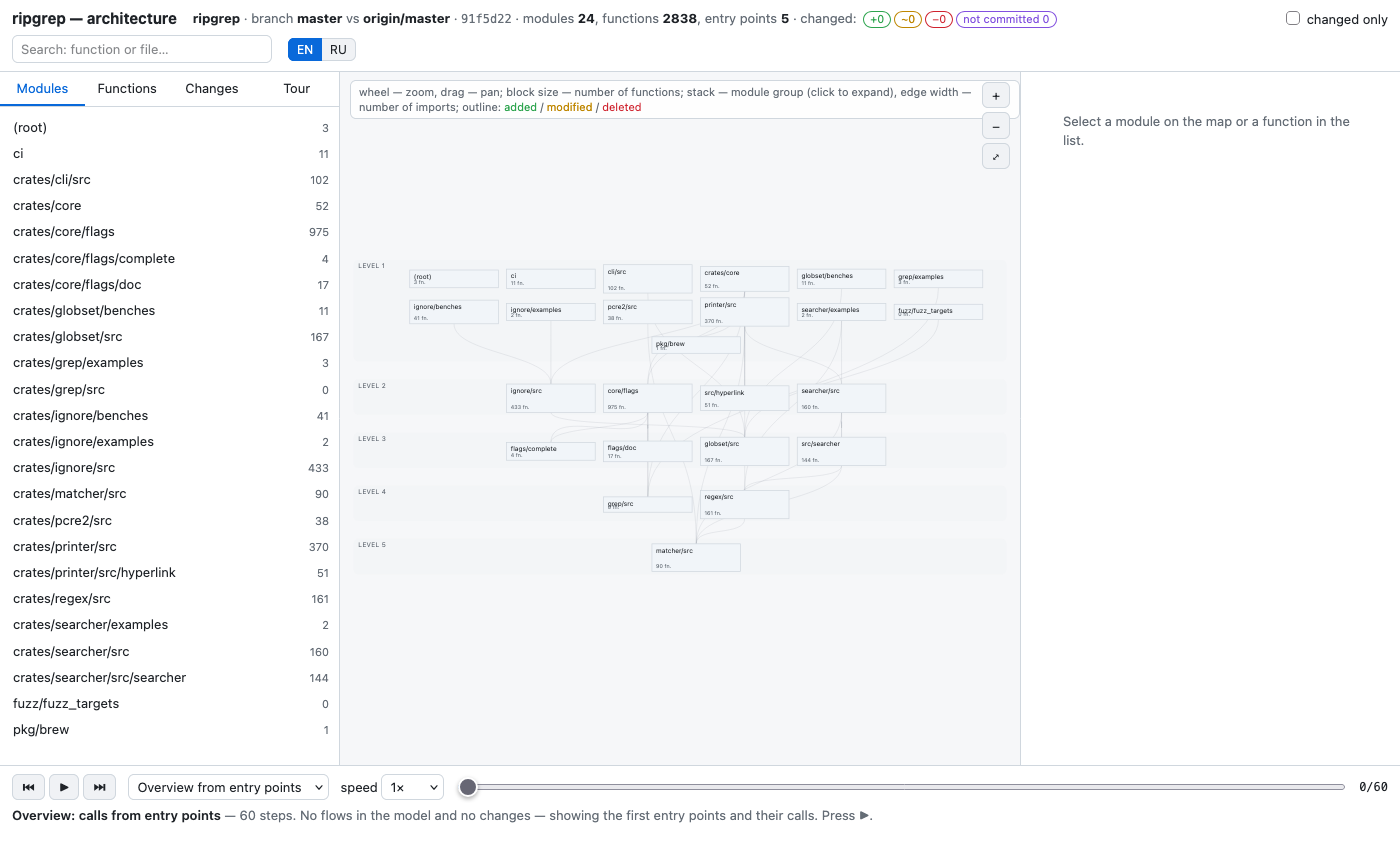
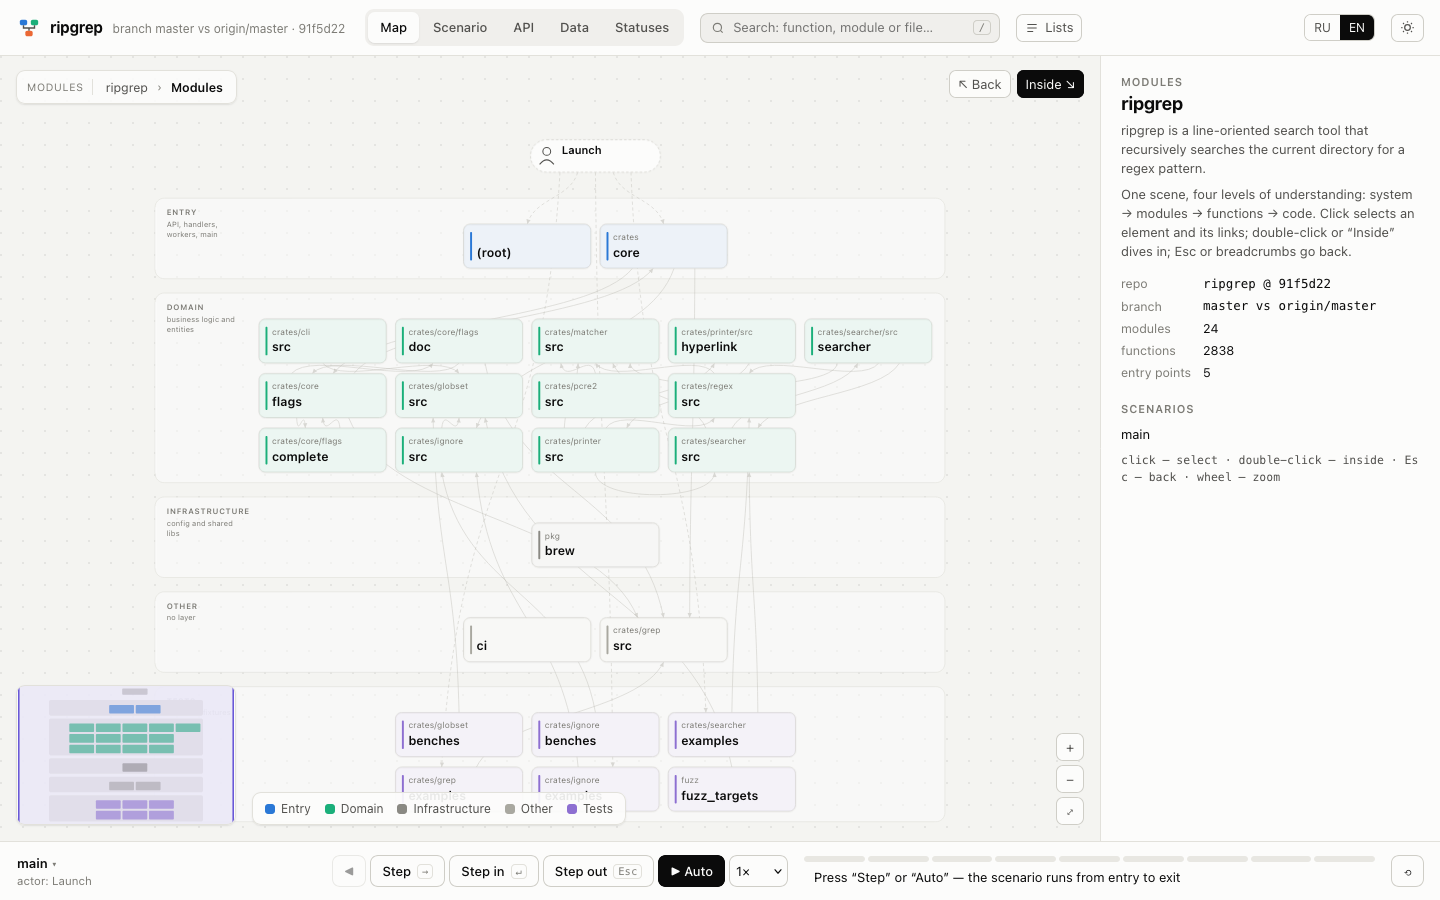
docs(readme): views, levels, markup and screenshots on open repos; fix(viewer): sequence right margin, sql schema label

diff --git a/internal/render/viewer/views/data.js b/internal/render/viewer/views/data.js
@@ -11,7 +11,7 @@ A.addI18n({
     dvOther: 'прочее', dvMore: (n) => '+ ещё ' + n, dvTables: (n, p) => n + ' ' + p(['таблица', 'таблицы', 'таблиц']),
     dvFields: 'Поля', dvRefsOut: 'Ссылается на', dvRefsIn: 'Ссылаются на неё', dvWho: 'Кто меняет', dvEps: 'Ручки, которые её трогают',
     dvNoWho: 'в коде не найдено обращений', dvNoEps: 'ни одна ручка не доходит до таблицы по вызовам', dvShowAll: (n) => 'показать все (' + n + ')',
-    dvSource: { migration: 'миграции', orm: 'ORM', query: 'запросы', sql: 'SQL' }, dvVirtual: 'таблицы нет в схеме — найдена только по обращениям',
+    dvSource: { migration: 'миграции', sqlc: 'схема SQL', orm: 'ORM', query: 'запросы', sql: 'SQL' }, dvVirtual: 'таблицы нет в схеме — найдена только по обращениям',
     dvLegend: 'R — читает, W — пишет, RW — оба. Клик по ячейке — функции, дающие доступ.', dvAllKinds: 'Все виды', dvMode: ['Все ручки', 'Только с данными', 'Есть запись', 'Только чтение'],
     dvSort: ['По имени', 'По числу таблиц', 'По записи'], dvColSort: ['Колонки: по имени', 'Колонки: по частоте'], dvRowsMore: (n) => 'ещё ' + n + ' ручек — показать',
     dvCell: 'Ручка × таблица', dvFns: 'Функции с доступом', dvOpenApi: 'Открыть ручку в API', dvOpenTable: 'Открыть таблицу', dvNoRows: 'Ни одна ручка не подходит под фильтры',
@@ -24,7 +24,7 @@ A.addI18n({
     dvOther: 'other', dvMore: (n) => '+ ' + n + ' more', dvTables: (n) => n + (n === 1 ? ' table' : ' tables'),
     dvFields: 'Fields', dvRefsOut: 'References', dvRefsIn: 'Referenced by', dvWho: 'Who changes it', dvEps: 'Endpoints that touch it',
     dvNoWho: 'no access found in code', dvNoEps: 'no endpoint reaches this table through calls', dvShowAll: (n) => 'show all (' + n + ')',
-    dvSource: { migration: 'migrations', orm: 'ORM', query: 'queries', sql: 'SQL' }, dvVirtual: 'not in the schema — found only from accesses',
+    dvSource: { migration: 'migrations', sqlc: 'SQL schema', orm: 'ORM', query: 'queries', sql: 'SQL' }, dvVirtual: 'not in the schema — found only from accesses',
     dvLegend: 'R — reads, W — writes, RW — both. Click a cell for the functions that give the access.', dvAllKinds: 'All kinds', dvMode: ['All endpoints', 'With data only', 'Writes', 'Read-only'],
     dvSort: ['By name', 'By tables count', 'By writes'], dvColSort: ['Columns: by name', 'Columns: by usage'], dvRowsMore: (n) => n + ' more endpoints — show',
     dvCell: 'Endpoint × table', dvFns: 'Functions with access', dvOpenApi: 'Open the endpoint in API', dvOpenTable: 'Open the table', dvNoRows: 'No endpoint matches the filters',

diff --git a/internal/render/viewer/views/sequence.js b/internal/render/viewer/views/sequence.js
@@ -158,9 +158,10 @@ function seqRender() {
   const m = seqModel();
   if (!m || !m.rows.length) { AM.h('div', { class: 'seq-empty' }, sWrap, AM.esc(AM.t('seqEmpty'))); seqSide(); return; }
   const parts = m.parts, np = parts.length;
-  const cw = sWrap.clientWidth || 900, x0 = 84, colMin = 150;
-  const W = Math.max(cw - 1, x0 * 2 + (np - 1) * colMin);
-  const colW = np > 1 ? (W - x0 * 2) / (np - 1) : 0;
+  // the right margin is wider than the left: a self-call loop with its label hangs to the right of the last lifeline
+  const cw = sWrap.clientWidth || 900, x0 = 84, xr = 240, colMin = 150;
+  const W = Math.max(cw - 1, x0 + xr + (np - 1) * colMin);
+  const colW = np > 1 ? (W - x0 - xr) / (np - 1) : 0;
   const X = {}; parts.forEach((p, i) => { X[p.key] = np > 1 ? x0 + i * colW : W / 2; });
 
   // vertical layout

diff --git a/README.md b/README.md
@@ -15,9 +15,58 @@ with [tree-sitter](https://tree-sitter.github.io/).
 
 The viewer UI is bilingual (English and Russian): it follows the browser
 language, can be forced with `?lang=en` / `?lang=ru`, and has an EN/RU switch
-in the header. One scene goes from the system context down to modules, functions
-and code; scenarios play through all four levels. How the viewer is built and how
-to add a view: [docs/viewer.md](docs/viewer.md).
+in the header, plus a light and a dark theme. See [Views](#views) for what the
+tabs show. How the viewer is built and how to add a view:
+[docs/viewer.md](docs/viewer.md).
+
+## Views
+
+The header has five tabs; a scenario that is playing stays in sync across all of
+them (the player bar at the bottom is shared).
+
+- **Map** is one scene that goes through four **levels of understanding**:
+  system (who uses it and what it talks to) -> modules -> functions of a module
+  -> code. Click selects an element and its links; double-click or "Inside" dives
+  in, Esc, "Back" or the breadcrumbs go up. A scenario plays through all four
+  levels, so you can follow a request from the outside system down to the lines
+  that run.
+- **Scenario** shows the same scenario as a sequence diagram: lifelines for the
+  actor, modules and external systems, `alt` blocks for the branches
+  (`arch:on`), a pause where a step goes through a queue, and the effects and
+  status changes of every step. A module mini map shows where the step is.
+- **API** lists every endpoint (HTTP, gRPC, WebSocket, tasks, CLI) grouped by
+  service, with filters by kind and access and a search. The card shows the
+  request and response types, the function, the scenario to play and the tables
+  the endpoint reaches through its calls; a table opens in the Data view.
+- **Data** shows the schema as an ER diagram (tables, fields, foreign keys), a
+  table card (who reads and changes it, which endpoints reach it) and an
+  endpoints x tables matrix. An endpoint in the card opens in the API view.
+  While a scenario plays, the tables the current step touches are marked.
+- **Statuses** draws the state machines found in the code (status constants and
+  enums, transitions from assignments, `UpdateStatusIfX(...)` calls and SQL,
+  plus `arch:state` lines); the transition of the current step lights up.
+
+Search (`/` or Ctrl/Cmd+K) finds functions, modules and files; the Lists
+drop-down holds modules by layer, all functions and the branch changes.
+
+![API view on spring-petclinic](docs/img/api-petclinic.png)
+*API: endpoints of [spring-petclinic](https://github.com/spring-projects/spring-petclinic) by controller, the card on the right.*
+
+![Data view on spring-petclinic](docs/img/data-petclinic.png)
+*Data: the schema of spring-petclinic with the selected table and its links.*
+
+![Scenario view on django-oscar](docs/img/sequence-oscar.png)
+*Scenario: a flow written with `arch:` lines (see below), on [django-oscar](https://github.com/django-oscar/django-oscar); the markup was added to a temporary copy, not to the project.*
+
+![Statuses view on django-oscar](docs/img/status-oscar.png)
+*Statuses: a state machine from `arch:state` lines on the same copy.*
+
+Endpoints are found from routers (Go: gin, chi, echo and the like), decorators
+(FastAPI, Flask, Express-style), Django/DRF urls, NestJS, Spring annotations,
+Next.js routes, Rails routes, `.proto` files and background tasks; tables come from migrations, SQL schemas and ORM models, and the access
+of a function to a table from queries (including named sqlc queries) and ORM
+calls. As everywhere in archmap, only what is plainly visible is reported: a
+project with no endpoints or tables gets an empty tab with a note, not a guess.
 
 ## How it explains code
 
@@ -124,7 +173,21 @@ archmap version
 The automatic scenarios follow the call graph. To tell the story yourself, mark
 functions with `arch:` lines in the comment right above them (a decorator or
 annotation line between the comment and the declaration is fine). It works in
-every supported language; the comment style is the language's own.
+every supported language; the comment style is the language's own. The markup
+feeds the Scenario view (flows, steps, branches) and the Statuses view
+(`arch:state`); `archmap lint` checks it. The screenshots above of django-oscar
+come from a temporary copy with exactly this kind of markup, for example:
+
+```python
+# arch:flow place-order "Place an order"
+# arch:actor Customer
+# arch:exit "the order is saved and the customer is notified"
+def place_order(self, basket, total, ...):
+
+# arch:step place-order "write the order header"
+# arch:state order: new -> pending
+def create_order_model(self, ...):
+```
 
 ```go
 // Request a Kaspi QR code for the order.
@@ -212,6 +275,8 @@ viewer as `map`, but it follows the repo:
   changed functions), rebuilding, or the error text; it reconnects by itself.
   Function code is read from `/src` on demand (not embedded); the code of a
   changed function is re-read.
+- All five tabs follow the update (the endpoint list, the ER diagram and the
+  state machines are rebuilt from the new facts).
 - Search (`/` or Ctrl/Cmd+K) finds functions, modules and files; Enter opens the
   function on the map, Shift+Enter in its code. The Lists drop-down holds
   modules by layer, all functions with a filter, and the branch changes.
